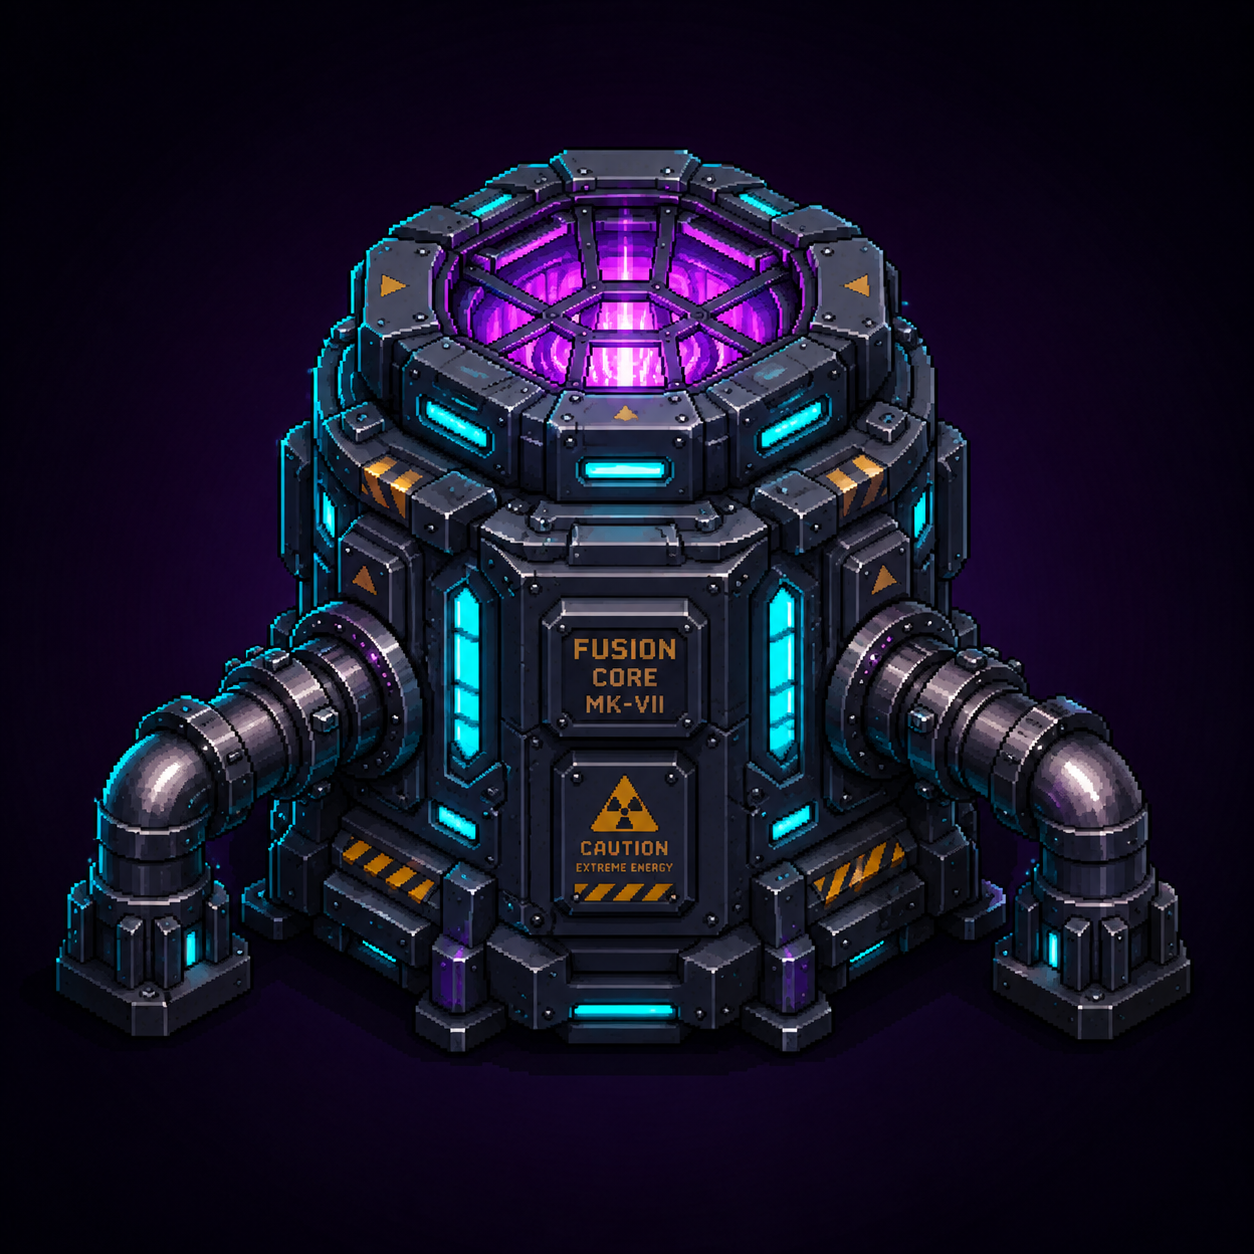
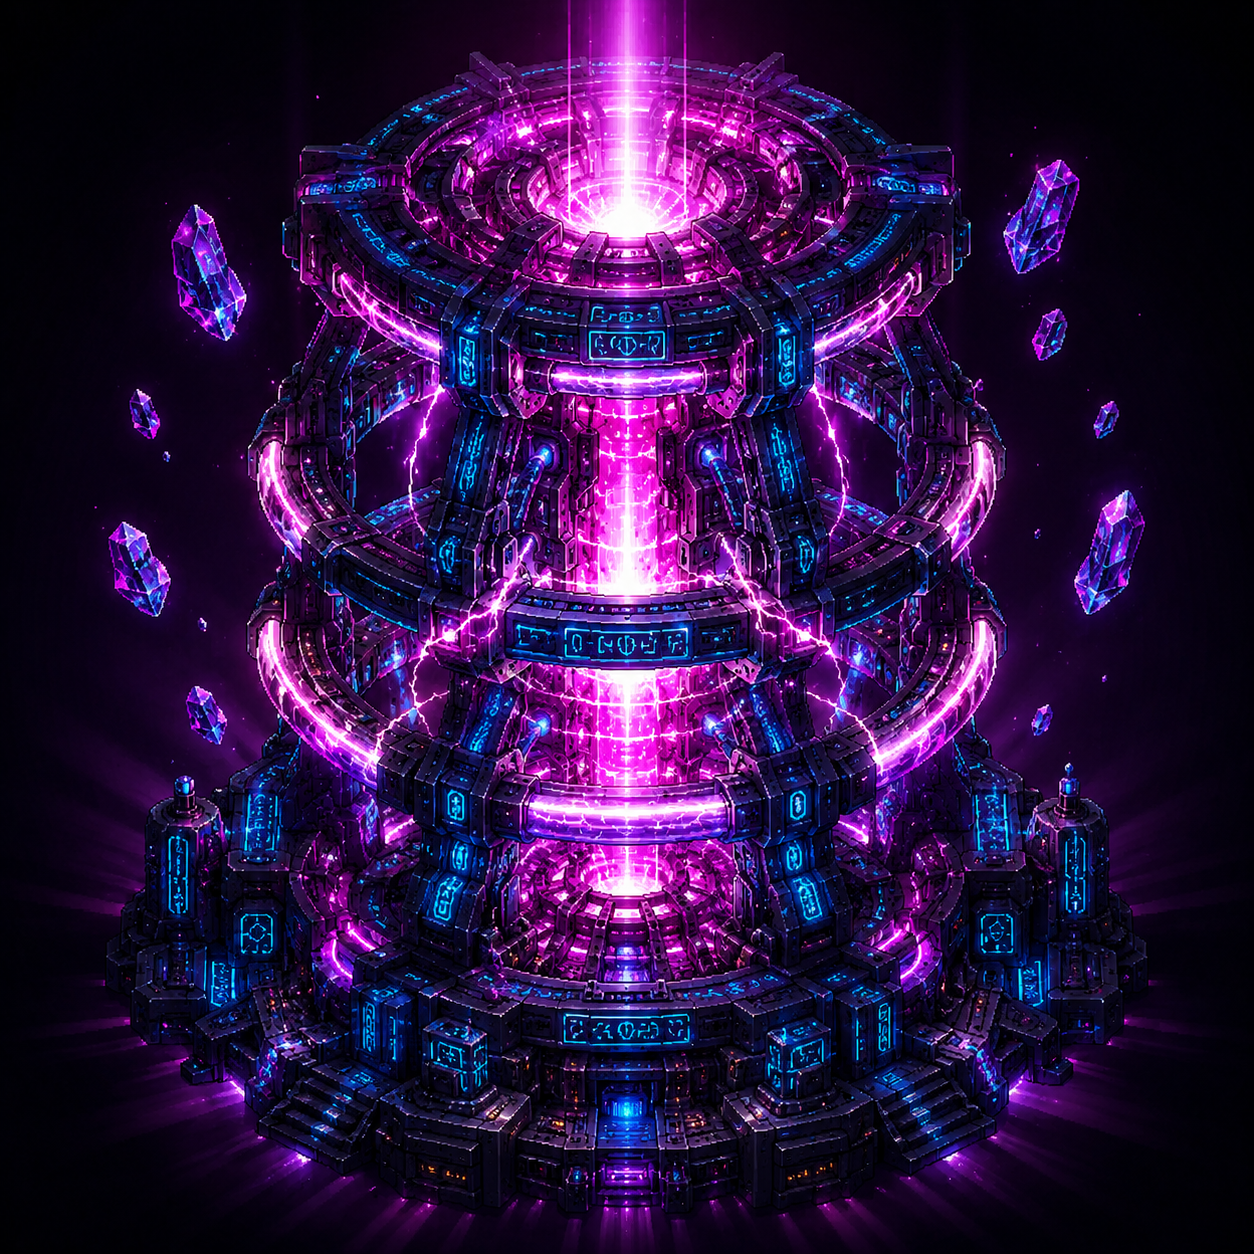
Update energy shop details, enhance upkeep display, and add updateDisplay function; create new settingHandler and sounds scripts

diff --git a/project/scripts/shop.js b/project/scripts/shop.js
@@ -24,6 +24,7 @@ function spendMoney(price) {
 		const factor = 10 ** moneyDecimals;
 		PLAYER.money = Math.round(PLAYER.money * factor) / factor;
 	}
+	updateDisplay();
 }
 
 function buyGpu(id) {
@@ -166,7 +167,7 @@ function loadEnergyShop() {
 			<span class="energyItemDetailName">Name: ${source.name}</span>
 			<span class="energyItemDetailPrice">Price: ${formatCompactMoney(source.price)}</span>
 			<span class="energyItemDetailOutput">Energy: ${source.output}</span>
-			<span class="energyItemDetailUpKeep">Cost: ${source.energyUse}</span>
+			<span class="energyItemDetailUpKeep">Cost per sec: ${source.upkeep}</span>
 			<span class="energyItemDetailDesc">Description: ${source.description}</span>
 		</div>
 		`;

diff --git a/project/data/gameData.js b/project/data/gameData.js
@@ -96,9 +96,9 @@ let DATA = {
             name: "Giga Fusion Core",
             price: 100_000_000,
             output: 5000,
-            upkeep: 7,
+            upkeep: 70,
             description: "Giga massive output for large operations.",
-            img: "img/energy/fusionCore.png"
+            img: "img/energy/fusionCore_epic.png"
         }
     },
     bitcoinToMoney: 3600,
